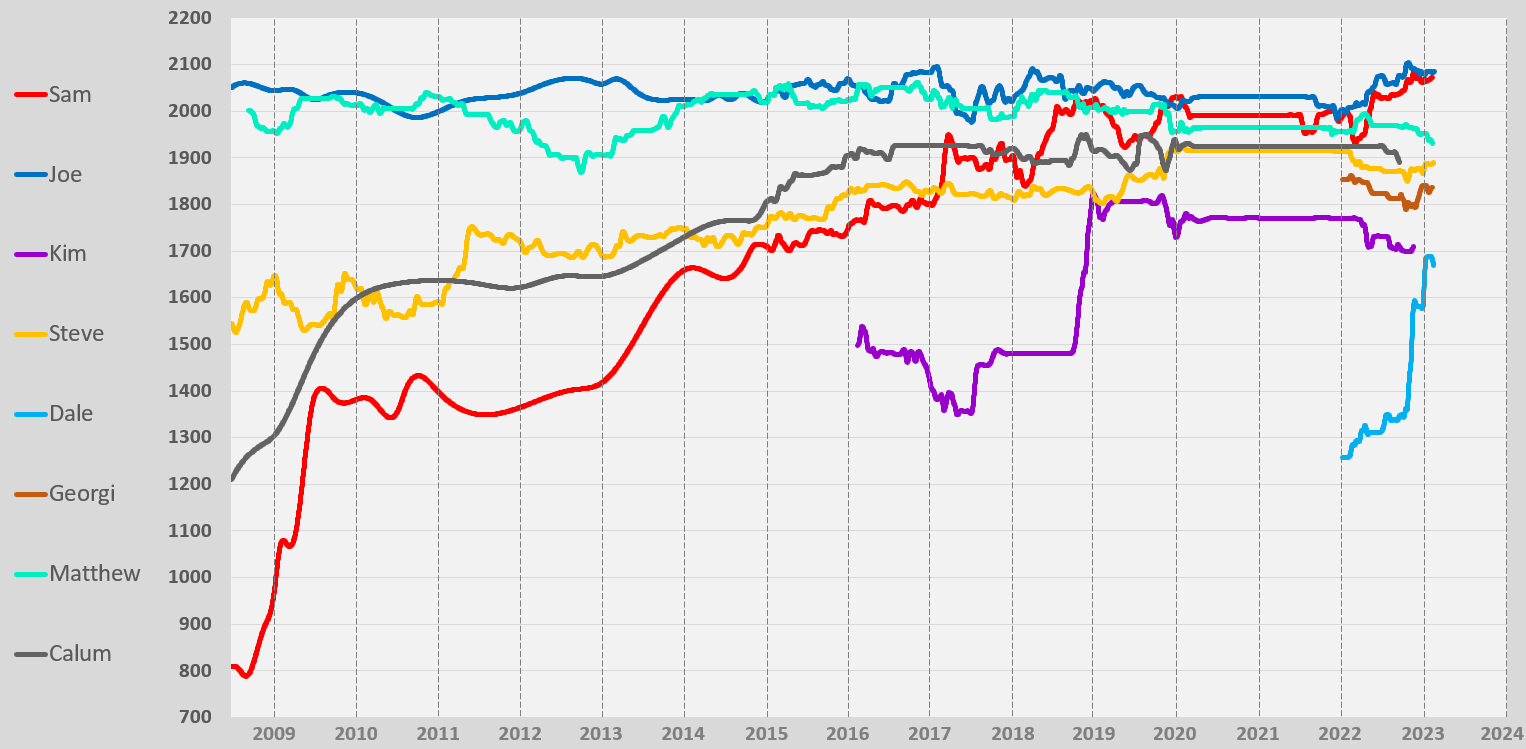
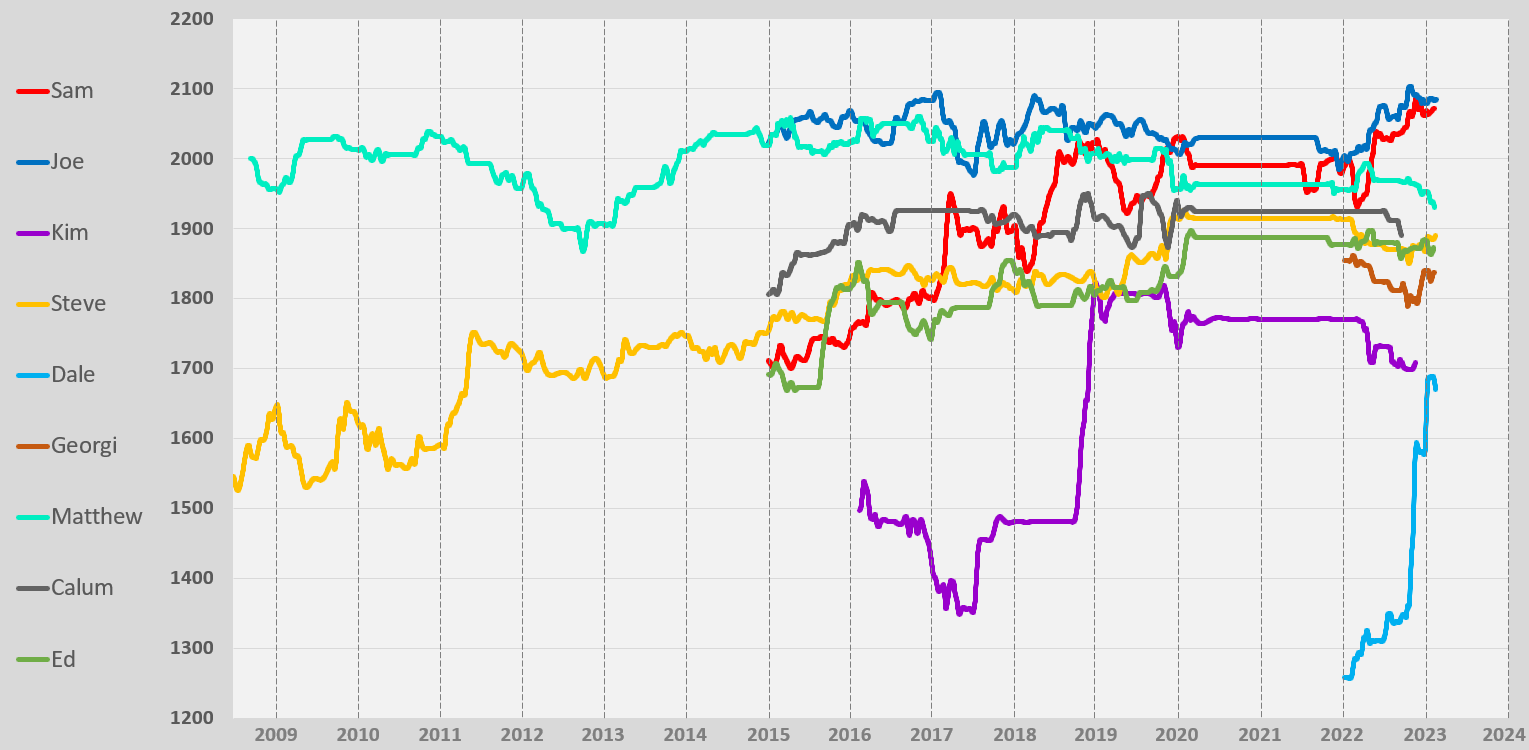
d

diff --git a/Jake_Hurley.html b/Jake_Hurley.html
@@ -1,0 +1,139 @@
+<!DOCTYPE html>
+<html>
+    <head>
+    <meta charset="utf-8">
+    <meta name="viewpoint" content="width=device-width,initial-scale=1">
+    <title>Georgi Korovski </title>
+    <script type="text/javascript" src="https://www.gstatic.com/charts/loader.js"></script>
+    <script type="text/javascript">
+      google.charts.load('current', {'packages':['corechart']});
+      google.charts.setOnLoadCallback(drawChart);
+
+      function drawChart() {
+        var data = google.visualization.arrayToDataTable([
+          ['Game', '2022 - Part 1','2022 - Part 2','2023 - Part 1'],
+          ['', 1854,null,null],
+          ['', 1863,null,null],
+          ['', 1857,null,null],
+          ['', 1848,null,null],
+          ['', 1853,null,null],
+          ['', 1848,null,null],
+          ['', 1833,null,null],
+          ['', 1824,null,null],
+          ['', 1812,1812,null],
+          ['', null,1816,null],
+          ['', null,1825,null],
+          ['', null,1807,null],
+          ['', null,1814,null],
+          ['', null,1795,null],
+          ['', null,1788,null],
+          ['', null,1806,null],
+          ['', null,1800,null],
+          ['', null,1795,null],
+          ['', null,1802,null],
+          ['', null,1792,null],
+          ['', null,1794,null],
+          ['', null,1809,null],
+          ['', null,1818,null],
+          ['', null,1829,null],
+          ['', null,1835,null],
+          ['', null,1840,null],
+          ['', null,1841,null],
+          ['', null,1838,1838],
+          ['', null,null,1825],
+          ['', null,null,1831],
+          ['', null,null,1838]
+
+
+        ]);
+
+        var options = {
+          title: 'Georgi Korovski',
+          titleTextStyle: {
+            fontSize: 30
+          },
+          vAxis: {
+          format: '####.##'
+          },
+          curveType: 'none',
+          fontSize: 15,
+          lineWidth: 4,
+          pointSize: 8,
+          legend: { position: 'bottom'},
+          series: {
+            0: { color: '#35a7f2' },
+            1: { color: '#f20a0a' },
+            2: { color: '#24d442' },          },
+          backgroundColor: "#ebebeb"
+        };
+
+        var chart = new google.visualization.LineChart(document.getElementById('curve_chart'));
+
+        chart.draw(data, options);
+      }
+    </script>
+    </head>
+    <body style="font-family: sans-serif; background-color:#ebebeb">
+      <h3><a href="https://j-ratings.github.io/J-Ratings/"> Home </a> </h3>
+      <div id="curve_chart" class="chart" style="position: relative; height:600px; width:1100px">
+      </div>
+      <h3>2022 - Part 1 /// E1 = 1854 /// k = 24</h3>
+      <table border="1" style="position: relative; height:10vh; width:95vw">
+        <tr>
+        <th>Date</th><th>Event</th><th>Name</th><th>Result</th><th>Opponent Rating</th><th>New Rating</th>
+        </tr>
+        <tr><td>09/02/2022</td><td>League</td><td>Chris Fox</td><td>1</td><td>1763</td><td>1863</td></tr>
+        <tr><td>23/02/2022</td><td>Club Championship</td><td>Nigel Ralphs</td><td>0</td><td>2039</td><td>1857</td></tr>
+        <tr><td>23/02/2022</td><td>League</td><td>Matthew Davies</td><td>0</td><td>1956</td><td>1848</td></tr>
+        <tr><td>09/03/2022</td><td>Club Championship</td><td>Joe Fathallah</td><td>0.5</td><td>1999</td><td>1853</td></tr>
+        <tr><td>30/03/2022</td><td>Club Championship</td><td>Alex Bullen</td><td>0</td><td>2098</td><td>1848</td></tr>
+        <tr><td>04/05/2022</td><td>League</td><td>Liam Penny</td><td>0</td><td>1774</td><td>1833</td></tr>
+        <tr><td>11/05/2022</td><td>League</td><td>Gwyn Harvard</td><td>0</td><td>1916</td><td>1824</td></tr>
+
+                     </table>
+      <br>
+      <h3>2022 - Part 2 /// E1 = 1824 /// k = 24</h3>
+      <table border="1" style="position: relative; height:10vh; width:90vw">
+        <tr>
+        <th>Date</th><th>Event</th><th>Name</th><th>Result</th><th>Opponent Rating</th><th>New Rating</th>
+        <tr><td>26/07/2022</td><td>Cup Match</td><td>Liam Penny</td><td>0</td><td>1813</td><td>1811</td></tr>
+        <tr><td>14/09/2022</td><td>League</td><td>Anezka Vlkova</td><td>0.5</td><td>1962</td><td>1816</td></tr>
+        <tr><td>21/09/2022</td><td>League</td><td>Kimberly Chong</td><td>1</td><td>1732</td><td>1825</td></tr>
+        <tr><td>26/09/2022</td><td>League</td><td>Gavin Jones</td><td>0</td><td>1626</td><td>1806</td></tr>
+        <tr><td>28/09/2022</td><td>Club Championship</td><td>Joe Fathallah</td><td>0.5</td><td>2075</td><td>1814</td></tr>
+        <tr><td>05/10/2022</td><td>Club Championship</td><td>Leon Zedlmayer</td><td>0</td><td>1580</td><td>1795</td></tr>
+        <tr><td>12/10/2022</td><td>League</td><td>Anezka Vlkova</td><td>0</td><td>1962</td><td>1787</td></tr>
+        <tr><td>19/10/2022</td><td>League</td><td>Sam Jukes</td><td>1</td><td>2028</td><td>1805</td></tr>
+        <tr><td>26/10/2022</td><td>Club Championship</td><td>Nigel Ralphs</td><td>0</td><td>2037</td><td>1800</td></tr>
+        <tr><td>02/11/2022</td><td>Club Championship</td><td>Sam Jukes</td><td>0</td><td>2028</td><td>1794</td></tr>
+        <tr><td>09/11/2022</td><td>Club Championship</td><td>Dave McGhee</td><td>1</td><td>1680</td><td>1802</td></tr>
+        <tr><td>16/11/2022</td><td>League</td><td>Duncan MacDonald</td><td>0</td><td>1882</td><td>1792</td></tr>
+        <tr><td>23/11/2022</td><td>Club Championship</td><td>Stuart Enoch</td><td>1</td><td>1440</td><td>1794</td></tr>
+        <tr><td>30/11/2022</td><td>League</td><td>David Llewellyn</td><td>1</td><td>1899</td><td>1808</td></tr>
+        <tr><td>06/12/2022</td><td>League</td><td>Simon Blackmore</td><td>1</td><td>1725</td><td>1817</td></tr>
+        <tr><td>11/12/2022</td><td>League</td><td>Thomas Mahoney</td><td>1</td><td>1800</td><td>1828</td></tr>
+        <tr><td>17/12/2022</td><td>League</td><td>Callum Davies</td><td>0.5</td><td>1850</td><td>1829</td></tr>
+        <tr><td>14/12/2022</td><td>League</td><td>Peter Slater</td><td>1</td><td>1630</td><td>1835</td></tr>
+        <tr><td>20/12/2022</td><td>League</td><td>Bob Hurn</td><td>1</td><td>1610</td><td>1841</td></tr>
+        
+        </tr>
+        </table>   
+          
+        </table>  
+
+        <h3>2023 - Part 1 /// E1 = 1841 /// k = 24</h3>
+        <table border="1" style="position: relative; height:10vh; width:90vw">
+          <tr>
+          <th>Date</th><th>Event</th><th>Name</th><th>Result</th><th>Opponent Rating</th><th>New Rating</th>
+          <tr><td>11/01/2023</td><td>League</td><td>Alex Bullen</td><td>0</td><td>2201</td><td>1838</td></tr>
+          <tr><td>16/01/2023</td><td>League</td><td>Roy Thomas</td><td>0</td><td>1810</td><td>1825</td></tr>
+          <tr><td>25/01/2023</td><td>League</td><td>Kam Choo Yin</td><td>1</td><td>1661</td><td>1831</td></tr>
+          <tr><td>01/02/2023</td><td>League</td><td>Nigel Ralphs</td><td>0.5</td><td>2041</td><td>1838</td></tr>
+
+  
+          </tr>
+         </table>     
+      
+    </body>
+
+</html>

diff --git a/Ed_Donovan.html b/Ed_Donovan.html
@@ -1,0 +1,115 @@
+<!DOCTYPE html>
+<html>
+    <head>
+    <meta charset="utf-8">
+    <meta name="viewpoint" content="width=device-width,initial-scale=1">
+    <title>Georgi Korovski </title>
+    <script type="text/javascript" src="https://www.gstatic.com/charts/loader.js"></script>
+    <script type="text/javascript">
+      google.charts.load('current', {'packages':['corechart']});
+      google.charts.setOnLoadCallback(drawChart);
+
+      function drawChart() {
+        var data = google.visualization.arrayToDataTable([
+          ['Game', '2022 - Part 1','2022 - Part 2','2023 - Part 1'],
+          [, 1877,null,null],          
+          [, 1885,null,null],          
+          [, 1887,null,null],
+          [, 1873,null,null],
+          [, 1879,null,null],
+          [, 1882,null,null],
+          [, 1888,null,null],
+          [, 1897,null,null],
+          [, 1877,null,null],
+          [, 1880,1880,null],
+          [, null,1860,null],
+          [, null,1868,null],
+          [, null,1870,null],
+          [, null,1873,null],
+          [, null,1872,null],
+          [, null,1876,null],
+          [, null,1884,1884],
+          [, null,null,1864],
+          [, null,null,1873],
+
+
+        ]);
+
+        var options = {
+          title: 'Ed Donovan',
+          titleTextStyle: {
+            fontSize: 30
+          },
+          vAxis: {
+          format: '####.##'
+          },
+          curveType: 'none',
+          fontSize: 15,
+          lineWidth: 4,
+          pointSize: 8,
+          legend: { position: 'bottom'},
+          series: {
+            0: { color: '#35a7f2' },
+            1: { color: '#f20a0a' },
+            2: { color: '#24d442' },          },
+          backgroundColor: "#ebebeb"
+        };
+
+        var chart = new google.visualization.LineChart(document.getElementById('curve_chart'));
+
+        chart.draw(data, options);
+      }
+    </script>
+    </head>
+    <body style="font-family: sans-serif; background-color:#ebebeb">
+      <h3><a href="https://j-ratings.github.io/J-Ratings/"> Home </a> </h3>
+      <div id="curve_chart" class="chart" style="position: relative; height:600px; width:1100px">
+      </div>
+      <h3>2022 - Part 1 /// E1 = 1877 /// k = 24</h3>
+      <table border="1" style="position: relative; height:10vh; width:95vw">
+        <tr>
+        <th>Date</th><th>Event</th><th>Name</th><th>Result</th><th>Opponent Rating</th><th>New Rating</th>
+        </tr>
+        <tr><td>15/02/2022</td><td>League</td><td>Lef Zografos</td><td>1</td><td>1693</td><td>1885</td></tr>
+        <tr><td>21/02/2022</td><td>League</td><td>Duncan Elliott</td><td>1</td><td>1674</td><td>1887</td></tr>
+        <tr><td>02/03/2022</td><td>League</td><td>Andrew Di-Vetta</td><td>0</td><td>1505</td><td>1873</td></tr>
+        <tr><td>16/03/2022</td><td>League</td><td>Dave Parsons</td><td>1</td><td>1608</td><td>1879</td></tr>
+        <tr><td>30/03/2022</td><td>League</td><td>Duncan Elliott</td><td>1</td><td>1395</td><td>1882</td></tr>
+        <tr><td>13/04/2022</td><td>League</td><td>Ellison Smith</td><td>1</td><td>1711</td><td>1888</td></tr>
+        <tr><td>20/04/2022</td><td>League</td><td>Guy Wagner</td><td>1</td><td>1523</td><td>1897</td></tr>
+        <tr><td>17/05/2022</td><td>League</td><td>Simon Blackmore</td><td>0</td><td>1707</td><td>1877</td></tr>
+        <tr><td>23/05/2022</td><td>League</td><td>Martin K Jones</td><td>1</td><td>1605</td><td>1880</td></tr>
+        
+                     </table>
+      <br>
+      <h3>2022 - Part 2 /// E1 = 1880 /// k = 24</h3>
+      <table border="1" style="position: relative; height:10vh; width:90vw">
+        <tr>
+        <th>Date</th><th>Event</th><th>Name</th><th>Result</th><th>Opponent Rating</th><th>New Rating</th>
+        <tr><td>07/09/2022</td><td>League</td><td>Leon van Rensburg</td><td>0</td><td>1605</td><td>1860</td></tr>
+        <tr><td>26/09/2022</td><td>League</td><td>Roy Thomas</td><td>1</td><td>1751</td><td>1868</td></tr>
+        <tr><td>19/10/2022</td><td>League</td><td>Jeff Rowland</td><td>1</td><td>1510</td><td>1870</td></tr>
+        <tr><td>09/11/2022</td><td>League</td><td>Anezka Vlkova</td><td>0.5</td><td>1962</td><td>1873</td></tr>
+        <tr><td>06/12/2022</td><td>League</td><td>John McGregor</td><td>0.5</td><td>1848</td><td>1872</td></tr>
+        <tr><td>11/12/2022</td><td>League</td><td>Easton Chan</td><td>1</td><td>1600</td><td>1876</td></tr>
+        <tr><td>14/12/2022</td><td>League</td><td>Lef Zografos</td><td>1</td><td>1746</td><td>1884</td></tr>
+                
+        </tr>
+        </table>   
+          
+        </table>  
+
+        <h3>2023 - Part 1 /// E1 = 1884 /// k = 24</h3>
+        <table border="1" style="position: relative; height:10vh; width:90vw">
+          <tr>
+          <th>Date</th><th>Event</th><th>Name</th><th>Result</th><th>Opponent Rating</th><th>New Rating</th>
+          <tr><td>16/01/2023</td><td>League</td><td>Leon van Rensburg</td><td>0</td><td>1693</td><td>1866</td></tr>
+          <tr><td>01/02/2023</td><td>League</td><td>Roy Thomas</td><td>1</td><td>1674</td><td>1872</td></tr>
+                    
+  
+          </tr>
+         </table>     
+      
+    </body>
+
+</html>

diff --git a/index.html b/index.html
@@ -5,23 +5,33 @@
     <meta name="viewpoint" content="width=device-width,initial-scale=1">
     <title>J-Ratings</title>
     </head>
+    <style>
+        h3 { 
+            display: inline;
+        }
+        </style>
     <body style="font-family: sans-serif; background-color:#ebebeb">
         <h1>J-Ratings</h1>
         <h2>Overview</h2>
-        A simple site to allow some of my friends to see their welsh ratings updated (with extended graphs).
+        A simple site to allow the Cardiff Crows and some of my friends to see their welsh ratings updated (with extended graphs).
         <br><br>
         I do not intend this project to turn into anything that requires a lot of work so I'll only update when I have time free.
         <h2>Players</h2>
         
+        <h3>Crows</h3>
+        <br>
+        <a href="https://j-ratings.github.io/J-Ratings/Ed_Donovan">Ed Donovan</a><br>
+        <a href="https://j-ratings.github.io/J-Ratings/Joe_Fathallah">Joe Fathallah</a><br>
+        <a href="https://j-ratings.github.io/J-Ratings/Kimberly_Chong">Kimberly Chong</a><br>
+        <a href="https://j-ratings.github.io/J-Ratings/Sam_Jukes">Sam Jukes</a><br>
+        <br>
+        <h3>Others</h3>
+        <br>
         <a href="https://j-ratings.github.io/J-Ratings/Calum_Harris">Calum Harris</a><br>
         <a href="https://j-ratings.github.io/J-Ratings/Dale_Westcott">Dale Westcott</a><br>
         <a href="https://j-ratings.github.io/J-Ratings/Georgi_Korovski">Georgi Korovski</a><br>
-        <a href="https://j-ratings.github.io/J-Ratings/Joe_Fathallah">Joe Fathallah</a><br>
-        <a href="https://j-ratings.github.io/J-Ratings/Kimberly_Chong">Kimberly Chong</a><br>
         <a href="https://j-ratings.github.io/J-Ratings/Matthew_Davies">Matthew Davies</a><br>
-        <a href="https://j-ratings.github.io/J-Ratings/Sam_Jukes">Sam Jukes</a><br>
         <a href="https://j-ratings.github.io/J-Ratings/Steve_Smith">Steve Smith</a><br>
-
 
         <h2>Comparison of Ratings</h2>
         Updated 09-02-2023
